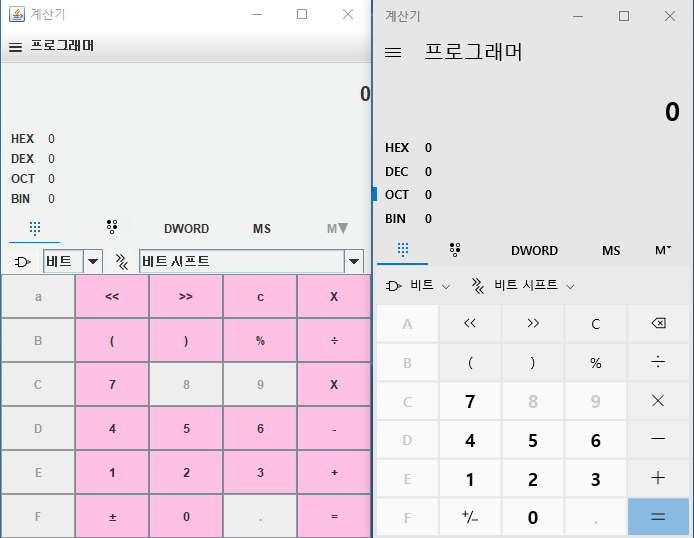
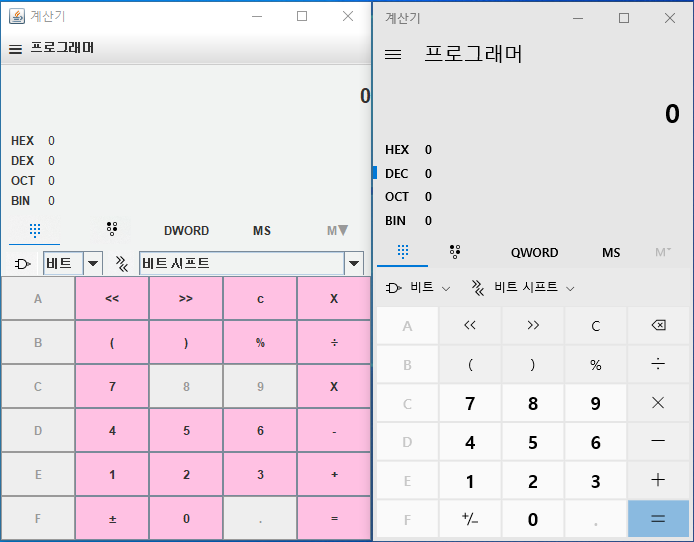
034. JavaSwing(Menu, Layout, Font, Color) - 계산기 과제

diff --git a/Java-study/034. JavaSwing(Menu, Layout, Font, Color) - 계산기 과제/src/exam/Main.java b/Java-study/034. JavaSwing(Menu, Layout, Font, Color) - 계산기 과제/src/exam/Main.java
@@ -168,7 +168,7 @@ class Calculator extends JFrame {
 		nums.setBackground(new Color(241, 243, 242));
 		nums.setLayout(new GridLayout(6, 5));
 
-		String numsTitle = "a,<<,>>,c,X,B,(,),%,÷,C,7,8,9,X,D,4,5,6,-,E,1,2,3,+,F,±,0,.,=";
+		String numsTitle = "A,<<,>>,c,X,B,(,),%,÷,C,7,8,9,X,D,4,5,6,-,E,1,2,3,+,F,±,0,.,=";
 
 		for (String title : numsTitle.split(",")) {
 			nums.add(new JButton(title));
